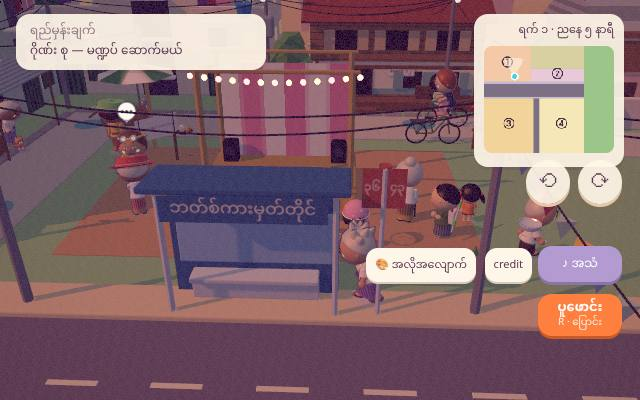
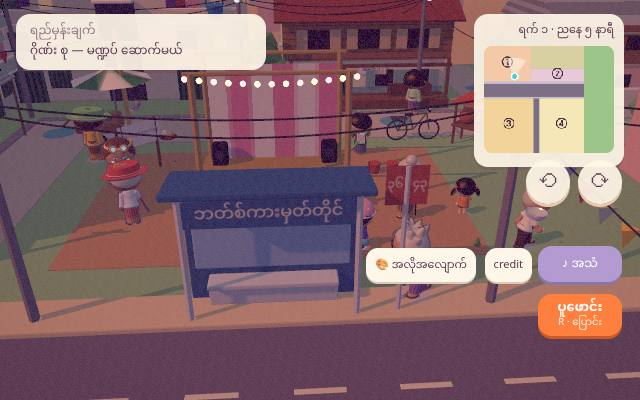
T5 review: the 「ဒင်း」 shot holds side-on over ④'s fence, cue bubbles that show during scenes, red ears either way, after-talk framing off the lamp post
Claude-Session: https://claude.ai/code/session_017xuZq8H4cNKSMdBo5y4KvM

diff --git a/yangon/main.js b/yangon/main.js
@@ -19,7 +19,7 @@ import { createCarry, ITEMS } from '../carry.js?v=1';
 import { makeBike, seatOn } from '../bike.js?v=1';
 import { load as loadSave, save as store, wipe } from './save.js?v=7';
 import { createDay, debugStart, PHASE_OF } from './day.js?v=1';
-import { createStory, GOALS, NIGHT, RED_EARS } from './story.js?v=1';
+import { createStory, GOALS, NIGHT } from './story.js?v=2';
 import { createMandat } from './mandat.js?v=1';
 
 const W = createWorld({ bounds: BOUNDS, ground, paintSky: shwedagon, camBounds: { x0: -3, x1: 27, z0: -4, z1: 30 }, view: 16, camera: 'orbit', surround: { rects: [ // the main street and the market street carry on past the island
@@ -214,6 +214,7 @@ const HOME_OUT = V(4.4, -3.3), MUM_DAY = V(6.9, -3.5), GATHER = V(-3.3, -2.3);
 const LOT = { ngazwe: [.4, .4], maythu: [1.4, -.3], phoekyaw: [4.8, -.3], chocho: [-.2, 1.2] };
 const FRONT = { hero: [5.0, 4.3], ngazwe: [3.4, 4.0], maythu: [4.2, 4.4], phoekyaw: [5.9, 3.8], chocho: [6.5, 3.2] }; // five o'clock, at the mandat's front corner (not in line with the bus stop on the street behind)
 const BUCKET_SPOT = V(BTOP.x, BTOP.z + .55), AMP_SPOT = V(-4.25, -1.55), TABLE = V(-.5, 2.6), TABLE_SPOT = V(.25, 2.7), WATER = V(5.2, 1.0), THROW = V(6.0, .3), THROW_RY = 1.03;
+const AZ_SIDE = Math.atan2(THROW.x - L.LAND4.x, THROW.z - L.LAND4.z) - Math.PI / 2; // side-on to the throw: the lot on one side of the frame, ④'s fence and yard on the other
 
 // ---------- the rope bucket from Auntie Sein's balcony (M1) ----------
 const bucket = W.keep(new THREE.Group()); scene.add(bucket);
@@ -326,18 +327,26 @@ const CUES = {
     await wait(1.2); // five kids, very still
     sound.fx('icebell', L.LAND4); dingBubble(); await wait(1.0);
   },
+  back: () => { W.orbit?.release(); if (W.orbit) W.orbit.state.azGoal = -.3; }, // after the ④ kid's voice: back to the five of you from the south, a little west — the lane's lamp posts stay at the frame's edges (T5 review) so the lane's lamp post (7.1, −3.85) stays out of the middle (T5 review)
   pinky: () => { face(chocho, hero); face(hero, chocho); chocho.anim.play('wave'); hero.anim.play('wave'); chocho.anim.emote('heart', 2); },
   // 1-8
   choice: () => new Promise(r => hud.menu({ title: 'ဖလား မဏ္ဍပ်ပေါ် ရှိတယ်နော်', close: null, items: NIGHT.map(([k, label]) => ({ label, on: () => { S.night[S.day - 1] = k; save(); r(k); } })) })),
-  ears: () => { const red = S.night[S.day - 1] === RED_EARS; hero.ch.blushEars(red); if (red) hero.anim.emote('dots', 2); },
+  ears: () => { hero.ch.blushEars(true); hero.anim.emote('dots', 2); }, // whatever you answer, the ears give you away (SCENARIO §3 1-8)
   sleep: async () => {
     const m = ROOMS.home.mat; await new Promise(r => day.walkTo(V(m.x, m.z), r)); hero.g.rotation.y = 0; hero.anim.setLoop('sit');
     await hud.fade(true, 1200);
     advance('done'); hero.ch.blushEars(false); day.card('ရက် ၂ — မကြာခင်');
   },
 };
-const dingSprite = W.speak(new THREE.Sprite(new THREE.SpriteMaterial({ map: bubbleTex('ဒင်း'), depthWrite: false }))); dingSprite.scale.set(1.6, .6, 1); dingSprite.visible = false; scene.add(dingSprite);
-function dingBubble() { dingSprite.position.copy(L.LAND4).setY(2.4); dingSprite.visible = true; setTimeout(() => { dingSprite.visible = false; }, 1600); }
+// story bubbles (「ဟာ」 at the slip, 「ဒင်း」 over ④'s yard): our own HTML, because world.js hides its speech layer while a scene
+// is busy (body.busy #bubbles) — and these two only ever happen inside one. Timed in game time, so a slow frame can't eat them.
+const cueCss = document.createElement('style'); cueCss.textContent = `.cuebub{position:fixed;z-index:6;left:0;top:0;padding:3px 12px 4px;border:2px solid #5a3550;border-radius:14px;background:#fff6ea;color:#5a3550;font:16px/1.5 "Noto Sans Myanmar",sans-serif;white-space:nowrap;pointer-events:none;transform:translate(-50%,-100%)}`; document.head.appendChild(cueCss);
+const cues = [], cp = new THREE.Vector3();
+function cueBubble(text, at, secs = 1.6) { const el = document.createElement('div'); el.className = 'cuebub'; el.textContent = text; el.style.display = 'none'; document.body.appendChild(el); cues.push({ el, at, end: W.time() + secs }); }
+W.tick(() => { for (let i = cues.length - 1; i >= 0; i--) { const c = cues[i]; if (W.time() > c.end) { c.el.remove(); cues.splice(i, 1); continue; }
+  cp.copy(typeof c.at === 'function' ? c.at() : c.at).project(W.cam); const on = cp.z < 1 && Math.abs(cp.x) < 1.05 && Math.abs(cp.y) < 1.05;
+  c.el.style.display = on ? 'block' : 'none'; if (on) { c.el.style.left = ((cp.x * .5 + .5) * innerWidth).toFixed(0) + 'px'; c.el.style.top = ((-cp.y * .5 + .5) * innerHeight - 8).toFixed(0) + 'px'; } } });
+const dingBubble = () => cueBubble('ဒင်း', L.LAND4.clone().setY(2.4), 1.6);
 
 // ---------- rooms: walk in off the street (shops) or the lane (home) ----------
 let inside = null, backTo = null, seated = null;
@@ -473,11 +482,11 @@ function slip(it, vel) { // carry.js calls this at the release: we fly it oursel
   // the water goes where you aimed …
   const r = hero.g.rotation.y; for (let i = 0; i < 40; i++) W.spawn(from.clone(), V(Math.sin(r) * (3.5 + 3 * p) + (rnd() - .5), Math.cos(r) * (3.5 + 3 * p) + (rnd() - .5), 2.4 + 2 * p + rnd()), { own: hero.g, s: .9 });
   // … the bowl doesn't: it squirts out of the wet hands sideways, tumbling — 「ဟာ」
-  life.say(hero, 'ဟာ', 1.8, 1.7); hero.anim.emote('bang', 2); it.water && (it.water.visible = false);
+  cueBubble('ဟာ', () => hero.g.position.clone().setY(hero.g.position.y + 1.9), 1.7); hero.anim.emote('bang', 2); it.water && (it.water.visible = false);
   const to = L.LAND4.clone().add(V((rnd() - .5) * .4, (rnd() - .5) * .4)); // always into ④'s yard: how hard you threw only changes how high it goes
   flight = { it, p, t: 0, dur: 1.2 + .35 * p, from, to, h: 4.0 + 2.0 * p, crossed: false }; // h: the top of the arc — the power bar only changes this
   for (const k of [hero, ...GANG]) k.anim.emote('bang', 2.6); // five kids: shock
-  W.orbit?.focus(it.g, { dist: 7, t: .4 });
+  W.orbit?.focus(it.g, { dist: 8, elev: .5, az: AZ_SIDE, t: .4 }); // follow the bowl side-on: you, the arc and ④'s fence in one frame, never the house wall (T5 review)
   return true;
 }
 W.tick(dt => {
@@ -490,7 +499,8 @@ W.tick(dt => {
   if (k >= 1) { g.position.copy(f.to); g.rotation.set(0, g.rotation.y, 0); f.it.state = 'ground'; lastThrow.land = { x: +f.to.x.toFixed(2), z: +f.to.z.toFixed(2), side4: f.to.x > L.FENCE4.x }; flight = null; afterThrow(); }
 });
 async function afterThrow() {
-  await wait(1.5); W.orbit?.release(); bowl.g.visible = false; // a ④ kid has it now
+  W.orbit?.focus(THROW.clone().lerp(L.LAND4, .65).setY(1.3), { dist: 9, elev: .45, az: AZ_SIDE, t: .5 }); // hold side-on over the fence: the fence, the 「ဒင်း」 above it, the lot's edge — released after the ④ kid's voice (cue 'back')
+  await wait(1.5); bowl.g.visible = false; // a ④ kid has it now
   hud.cinematic(false);
   await story.play('1-7', 'after');
   scene18();
@@ -660,7 +670,7 @@ $('eagain').addEventListener('click', e => { e.stopPropagation(); wipe(); locati
 stage(S.step); save();
 W.start();
 if (DEBUG) window.zone = { W, S: () => S, day, story, mandat, cw, pc, hero, people: PEOPLE, SPOTS, hud, here, sound, L, life, bowl, bucket: () => ({ ...BK }), lastThrow, mission: MISSION,
-  bulbs: () => fixing, throwing: () => !!flight?.it, talking: () => hud.talking(), mini: () => hud.mini(), stage, fast: false,
+  bulbs: () => fixing, throwing: () => !!flight?.it, ding: () => cues.some(c => c.el.textContent === 'ဒင်း'), dingNow: () => dingBubble(), talking: () => hud.talking(), mini: () => hud.mini(), stage, fast: false,
   // tests: do what the goal points at — go there and press E (an auto spot just needs you there)
   next() {
     if (hud.busy() || story.playing || flight || fixing) return 'busy';

diff --git a/yangon/story.js b/yangon/story.js
@@ -61,6 +61,7 @@ export const SCENES = {
     after: [
       [null, null, { cue: 'ding' }],
       ['kid4', 'ဟေး ဘာကျလာတာလဲ', { voice: true }],
+      [null, null, { cue: 'back' }],
       ['mom', '{name}! ၅ နာရီ!', { voice: true }],
       ['maythu', 'ဖလား ၁ — ဘွားဘွားကို အကြွေး', { act: 'note' }],
       ['ngazwe', 'ဘယ်သူမှ မပြောရ။ မနက်ဖြန် ငါတို့ ကိုယ်တိုင် ပြန်ယူမယ်', { face: 'lie' }],
@@ -80,7 +81,7 @@ export const SCENES = {
   out: { lines: [['mom', '{name}!', { voice: true }]] },
 };
 // 1-8's two answers (hud.menu); the one that gives the red ears (TASKS T5 §1: 「…」 → red ears)
-export const NIGHT = [['yes', 'ရှိတယ်'], ['dots', '…']], RED_EARS = 'dots';
+export const NIGHT = [['yes', 'ရှိတယ်'], ['dots', '…']]; // either answer: the ears go red (SCENARIO §3 1-8 — Fable review)
 
 // how long a line holds before it moves on by itself (s): enough to read it, never so long a scene passes 30 s
 export const hold = text => Math.min(4.5, Math.max(2.4, 1.2 + text.length * .07));

diff --git a/yangon.html b/yangon.html
@@ -176,7 +176,7 @@
 </div>
 <button id="upd" type="button" hidden>✨ ဗားရှင်းအသစ် ရပြီ · ပြန်ဖွင့်မယ်</button>
 <script type="importmap">{"imports":{"three":"https://cdn.jsdelivr.net/npm/three@0.170.0/build/three.module.js","three/addons/":"https://cdn.jsdelivr.net/npm/three@0.170.0/examples/jsm/"}}</script>
-<script type="module" src="./yangon/boot.js?v=27"></script>
+<script type="module" src="./yangon/boot.js?v=28"></script>
 <script type="module" src="./pwa.js?v=1"></script>
 </body>
 </html>

diff --git a/yangon/boot.js b/yangon/boot.js
@@ -5,4 +5,4 @@ const S = load();
 // T2: the sign boards are drawn onto canvases while the town is built, so let the self-hosted Myanmar font arrive first
 // (at most 1.5 s — offline it comes from the PWA cache at once; if it never does, the system font is used as before)
 await Promise.race([document.fonts?.load('700 40px "Noto Sans Myanmar"', 'က').catch(() => {}), new Promise(r => setTimeout(r, 1500))]);
-import(S.at === 'downtown' ? './downtown.js?v=16' : './main.js?v=26');
+import(S.at === 'downtown' ? './downtown.js?v=16' : './main.js?v=27');

diff --git a/sw.js b/sw.js
@@ -1,7 +1,7 @@
 // sw.js — keeps the Yangon day on the phone so it opens without a connection. Everything the game loads is fetched once
 // when this installs, then served from the cache. Bump VERSION with every push that changes a game file: the new
 // worker downloads the new set, waits, and pwa.js offers a reload (never mid-play on its own).
-const VERSION = 'y14';
+const VERSION = 'y15';
 const CACHE = 'thingyan-' + VERSION;
 const THREE = 'https://cdn.jsdelivr.net/npm/three@0.170.0/';
 const CORE = [

diff --git a/docs/plans/T5.md b/docs/plans/T5.md
@@ -107,3 +107,10 @@ Screenshots: `docs/day1/1-1.jpg … 1-8.jpg`, `mandat-day1.jpg`, `1-7-throw.jpg`
 2. **Where ④ is** — the fence is on the pink compound across the east lane (from the lot the bowl flies ESE ~7 m). set.js `AREAS` still calls the monastery block "④". T6 builds the ④ lane: keep this compound as ④'s edge?
 3. **The hero is a kid now** — OK to keep barber/clothes off until the wardrobe dresses the cast hero?
 4. **Auto-advancing lines** (2.4–4.5 s, tap to skip) — fine, or should lines wait for a tap?
+
+## Review fixes (Fable 🔁 2026-11-01)
+- **The 「ဒင်း」 shot** — the camera follows the bowl side-on (`focus(bowl, { dist 8, elev .5, az: AZ_SIDE })`, AZ_SIDE = 90° off the throw line), then holds over ④'s fence (`THROW → LAND4` at .65, y 1.3, dist 9, elev .45) through the 「ဒင်း」 and the ④ kid's voice, and releases on a new `back` cue. `docs/day1/1-7-ding.jpg`: the fence with its ④ mark, the 「ဒင်း」 bubble over the yard, the lot's edge on the right — no wall filling the frame.
+- **The 「ဒင်း」 / 「ဟာ」 bubbles were never visible in play**: world.js hides its speech layer while a scene is busy (`body.busy #bubbles`), and both only happen inside a scene. They are now main.js's own HTML cue bubbles, timed in game time (`cueBubble()`).
+- **Red ears either way** (SCENARIO wins): `RED_EARS` dropped, both answers blush.
+- **Talk framing at the throw spot**: after the release the view turns to az −.3 (south, a little west), so the lamp post at (7.1, −3.85) is behind the kids at the top of the frame, not in front of them (`1-7-after.jpg`). Probed az 0 / ±.3 / 2.6 / 3.0 / −2.6 / −.9 / −1.4 (−1.4 puts the camera inside a building; −.9 behind the mandat's lights).
+- Check re-run: throws 0 / .5 / 1 land in ④'s yard (0.63 / 1.25 / 2.13 m over the fence) · new game → day-2 card · night 「…」 red ears · console errors 0. Versions: `story.js?v=2`, `main.js?v=27`, `boot.js?v=28`, sw `y15`.
